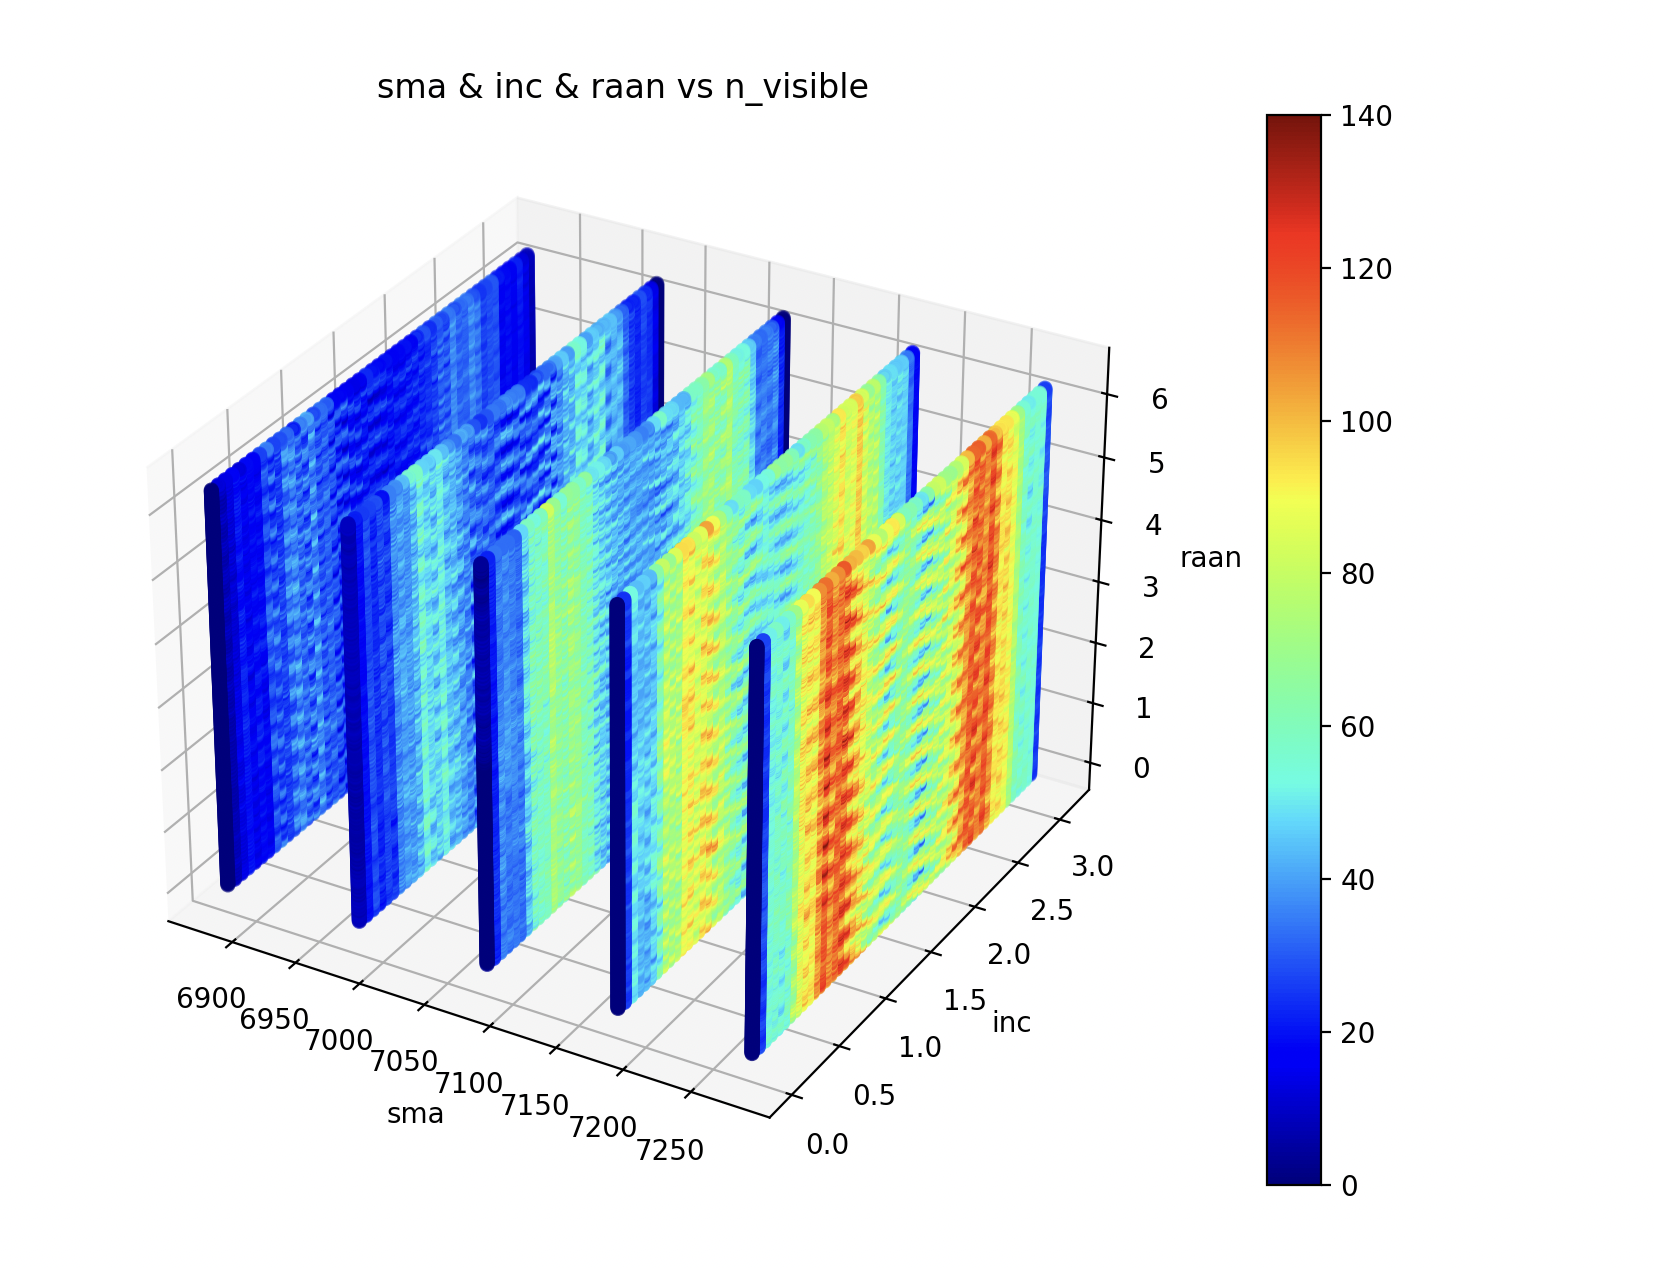
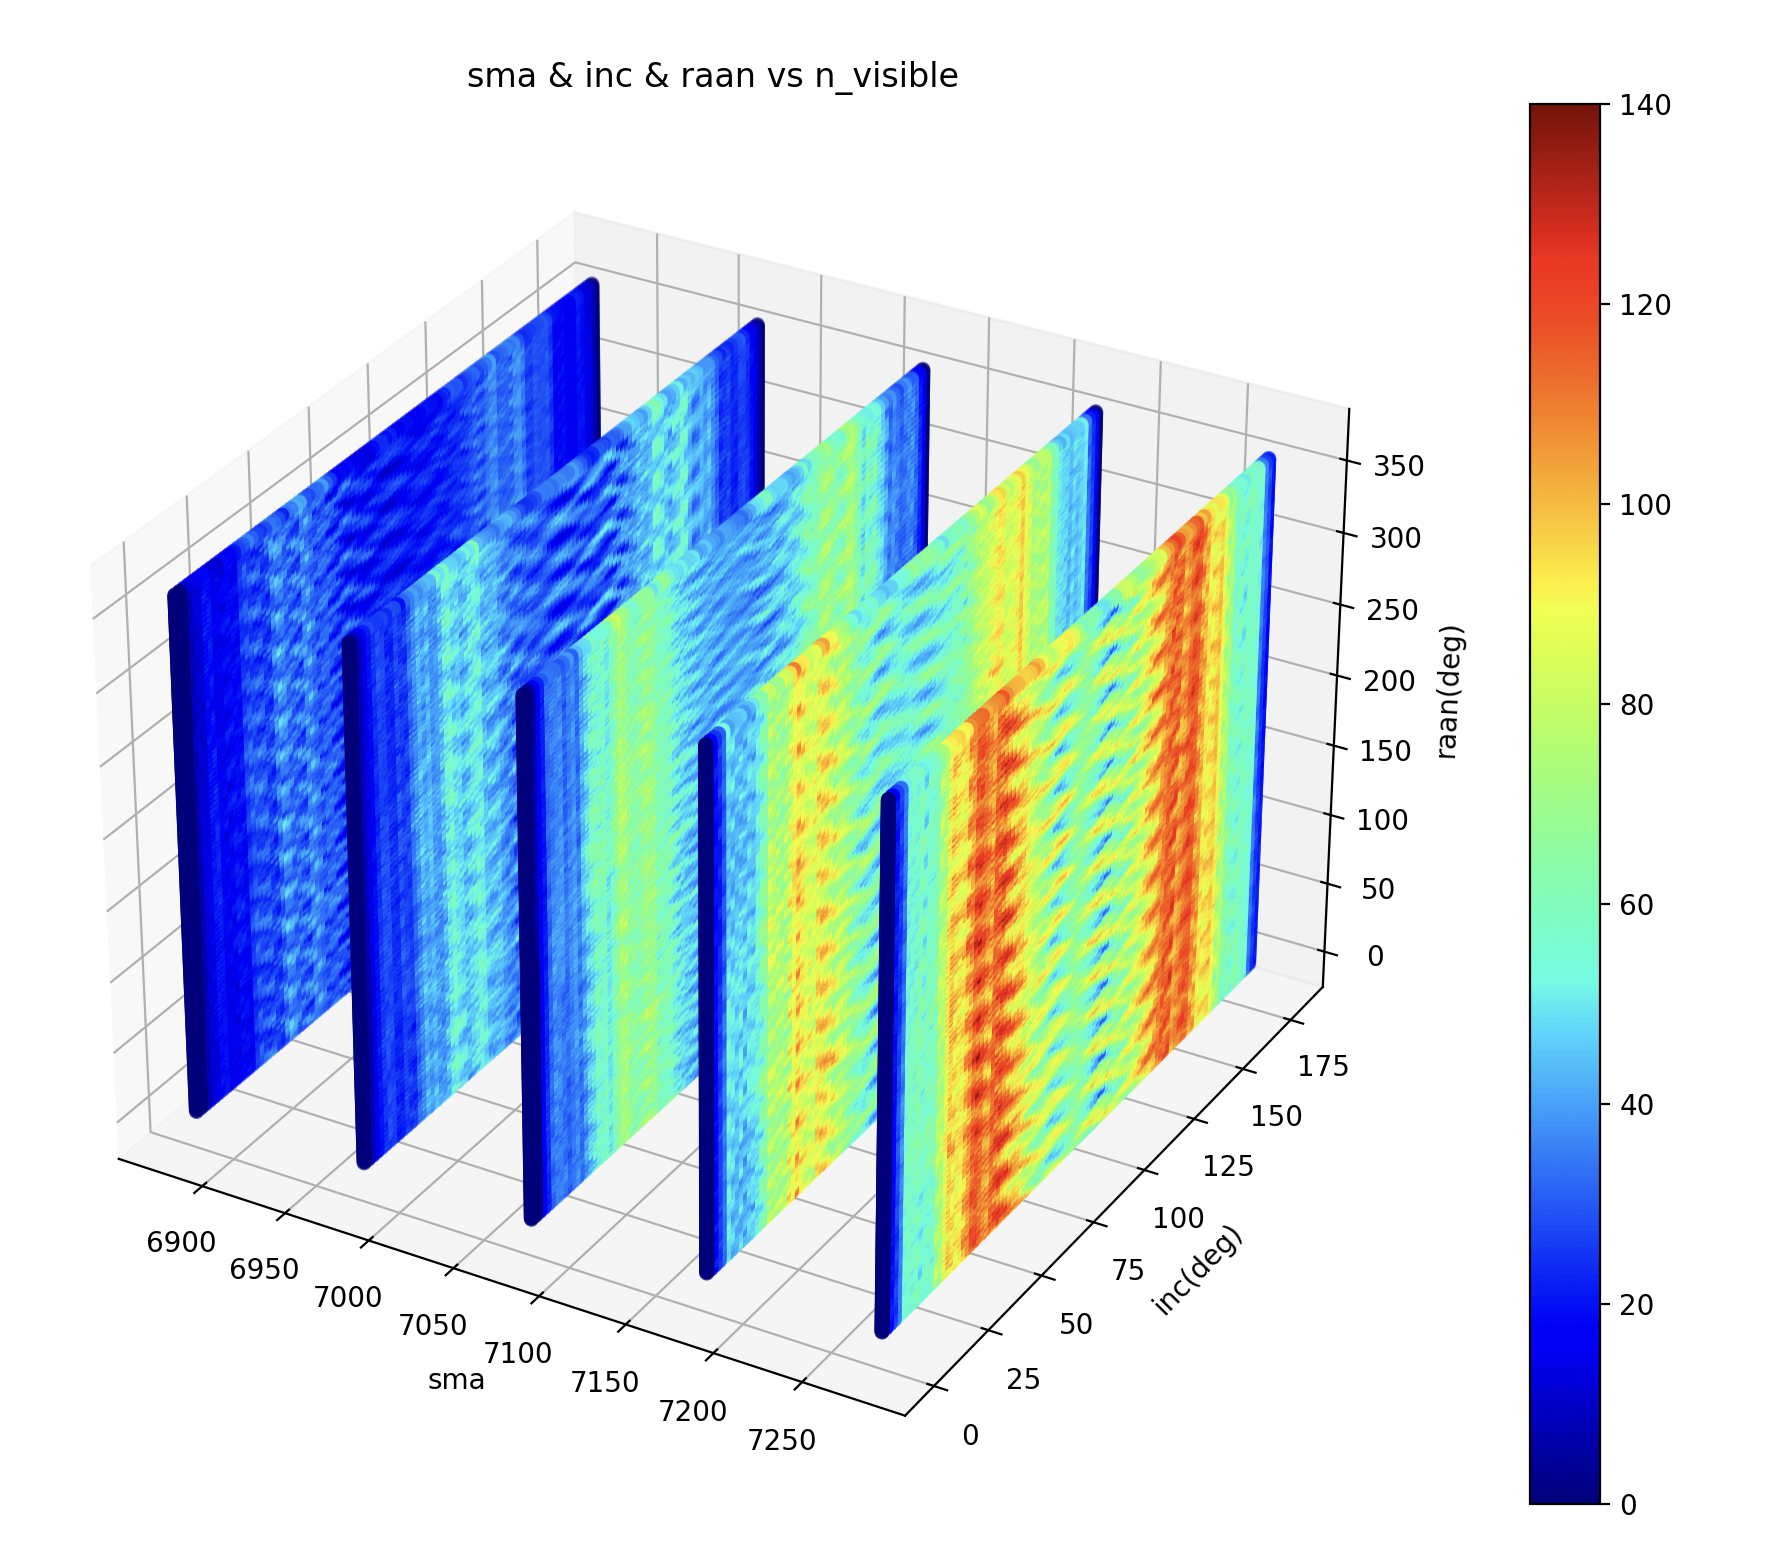
update mac

diff --git a/CTOC13-C/analysis/single_sat_ship.py b/CTOC13-C/analysis/single_sat_ship.py
@@ -1,0 +1,85 @@
+# -*- coding:utf-8 -*-
+import os
+import numpy as np
+import matplotlib.pyplot as plt
+from mpl_toolkits.mplot3d import Axes3D
+from matplotlib.colors import Normalize, ListedColormap, BoundaryNorm
+
+'''
+Analysis of single satellite data
+- Data:
+    Shape: (10000000, 7)
+    Columns: [sma, ecc, inc, raan, argp, ta, n_visible]
+    Special: ecc = argp = ta = 0
+- Analysis:
+    1. sma: 6878.137 < sma < 7378.137
+    2. inc: 0.0 < inc < PI
+    3. raan: 0.0 < raan < 2 * PI
+- Plot:
+    1. sma & inc & raan vs n_visible
+    2. inc vs n_visible
+    3. raan vs n_visible
+'''
+
+
+# Read data from binary file
+def read_data(db_filepath):
+    with open(db_filepath, 'rb') as file:
+        binary_data = file.read()
+        text_data = binary_data.decode('utf-8').replace('\n', ' ').replace('\t', ' ')
+        text_data = text_data.strip()
+        data = np.array(text_data.split(), dtype=np.float64)
+    data = data.reshape(-1, 7)
+    return data
+
+def custom_colormap():
+    cmap = (ListedColormap(['blue', 'royalblue', 'lightgreen', 'yellow', 'orange'])
+        .with_extremes(over='red'))
+    
+    return cmap
+
+
+if __name__ == '__main__':
+    # Save data
+    data_name = 'single_sat_ship'
+    # data_bin_path = os.path.join(os.path.dirname(__file__), '../data', data_name + '.bin')
+    # data = read_data(data_bin_path)
+    # np.save(os.path.join(os.path.dirname(__file__), '../data', data_name + '.npy'), data)
+
+    # Load data
+    data_np_path = os.path.join(os.path.dirname(__file__), '../data', data_name + '.npy')
+    data = np.load(data_np_path)
+    print(data.shape)
+
+    # Analysis
+    step = 100
+    sma = data[0:data.shape[0]:step, 0]
+    inc = np.rad2deg(data[0:data.shape[0]:step, 2])
+    raan = np.rad2deg(data[0:data.shape[0]:step, 3])
+    n_visible = data[0:data.shape[0]:step, 6]
+
+    # 1. sma & inc & raan vs n_visible: 3D heatmap
+    # Point color: n_visible
+    # Color bar shown on the right
+    fig = plt.figure()
+    ax = fig.add_subplot(projection='3d')
+    
+    # 创建自定义颜色映射
+    custom_cmap = custom_colormap()
+    
+    # 使用自定义的颜色映射和归一化
+    bounds = np.linspace(0, 8, 5)
+    norm = BoundaryNorm(bounds, custom_cmap.N, extend='max')
+    
+    scatter = ax.scatter(sma, inc, raan, c=n_visible, cmap=custom_cmap, norm=norm)
+    
+    ax.set_xlabel('sma(km)')
+    ax.set_ylabel('inc(deg)')
+    ax.set_zlabel('raan(deg)')
+
+    fig.colorbar(scatter)
+    plt.title('sma & inc & raan vs n_ship_visible (max 8)')
+   
+    plt.show()
+
+    

diff --git a/CTOC13-C/analysis/single_sat_total.py b/CTOC13-C/analysis/single_sat_total.py
@@ -2,8 +2,6 @@
 import os
 import numpy as np
 import matplotlib.pyplot as plt
-from mpl_toolkits.mplot3d import Axes3D
-from matplotlib.colors import Normalize, ListedColormap, BoundaryNorm
 
 '''
 Analysis of single satellite data
@@ -32,16 +30,12 @@ def read_data(db_filepath):
     data = data.reshape(-1, 7)
     return data
 
-def custom_colormap():
-    cmap = (ListedColormap(['blue', 'royalblue', 'lightgreen', 'yellow', 'orange'])
-        .with_extremes(over='red'))
-    
-    return cmap
+
 
 
 if __name__ == '__main__':
-    # Save data
-    data_name = 'single_sat_ship'
+     # Save data
+    data_name = 'single_sat_1108_2_large'
     # data_bin_path = os.path.join(os.path.dirname(__file__), '../data', data_name + '.bin')
     # data = read_data(data_bin_path)
     # np.save(os.path.join(os.path.dirname(__file__), '../data', data_name + '.npy'), data)
@@ -52,7 +46,7 @@ if __name__ == '__main__':
     print(data.shape)
 
     # Analysis
-    step = 100
+    step = 50
     sma = data[0:data.shape[0]:step, 0]
     inc = np.rad2deg(data[0:data.shape[0]:step, 2])
     raan = np.rad2deg(data[0:data.shape[0]:step, 3])
@@ -63,23 +57,13 @@ if __name__ == '__main__':
     # Color bar shown on the right
     fig = plt.figure()
     ax = fig.add_subplot(projection='3d')
-    
-    # 创建自定义颜色映射
-    custom_cmap = custom_colormap()
-    
-    # 使用自定义的颜色映射和归一化
-    bounds = np.linspace(0, 8, 5)
-    norm = BoundaryNorm(bounds, custom_cmap.N, extend='max')
-    
-    scatter = ax.scatter(sma, inc, raan, c=n_visible, cmap=custom_cmap, norm=norm)
-    
-    ax.set_xlabel('sma(km)')
+    ax0 = ax.scatter(sma, inc, raan, c=n_visible, cmap='jet')
+
+    ax.set_xlabel('sma')
     ax.set_ylabel('inc(deg)')
     ax.set_zlabel('raan(deg)')
 
-    fig.colorbar(scatter)
-    plt.title('sma & inc & raan vs n_ship_visible (max 8)')
+    fig.colorbar(ax0)
+    plt.title('sma & inc & raan vs n_visible')
    
     plt.show()
-
-
